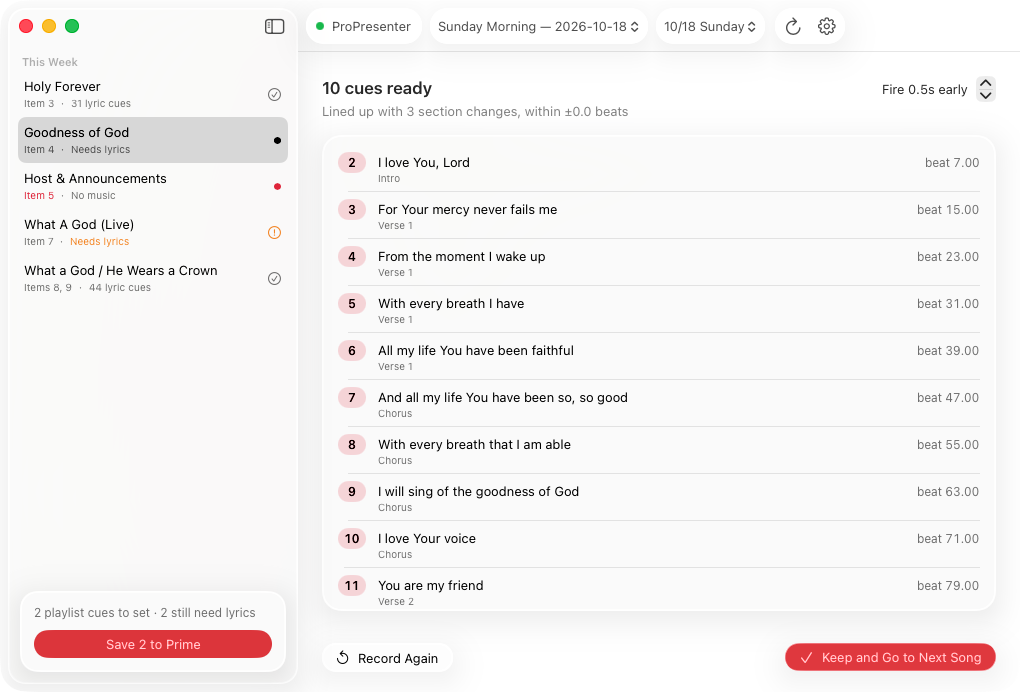
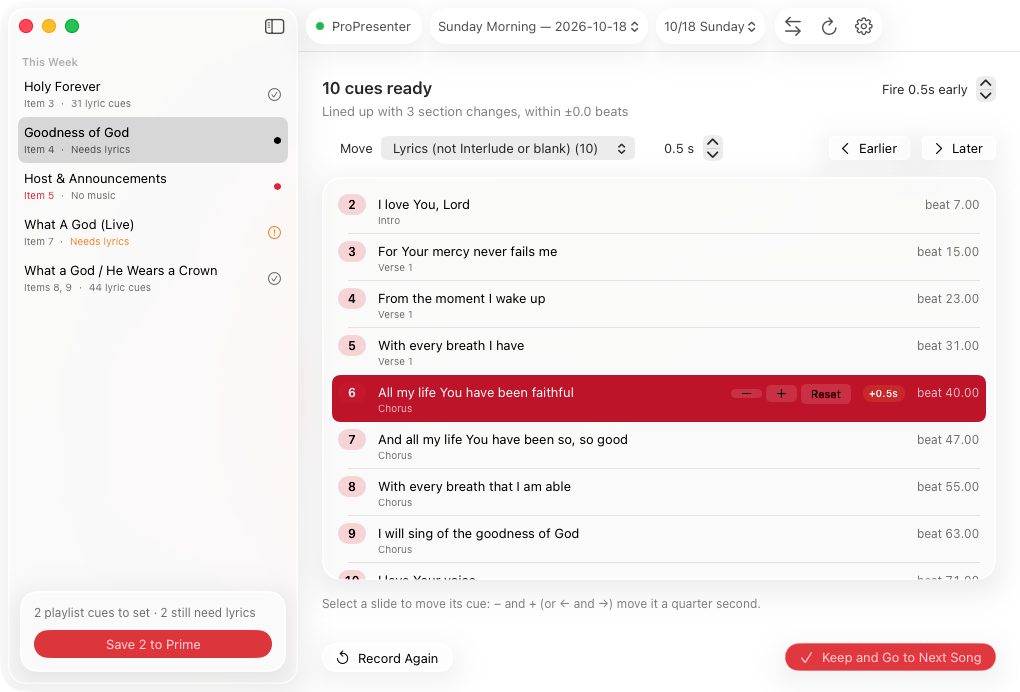
Site: fine-tuning cues, Full Disk Access, notes for skipped versions

diff --git a/site/index.html b/site/index.html
@@ -310,7 +310,7 @@
           <h2>Timing that snaps to the music.</h2>
           <p class="intro">Each section change you click (Verse, Chorus, Bridge) is matched to that section in Prime, so a cue lands on the beat even if your click was a little late. Cues fire half a second early by default to cover MIDI delay.</p>
         </div>
-        <img src="review.png" width="1020" height="692" alt="Ten recorded lyric cues, each with its slide text, section and beat." loading="lazy">
+        <img src="review.png" width="1020" height="692" alt="Ten recorded lyric cues, each with its slide text, section and beat. One Chorus slide is selected with − and + buttons and moved half a second later." loading="lazy">
       </div>
       <div class="split flip">
         <div class="copy">
@@ -319,6 +319,14 @@
           <p class="intro">Uploaded songs and songs with tempo changes are timed by the clock. Tell the app where the first slide lands and the rest follow your clicks.</p>
         </div>
         <img src="first-slide.png" width="1020" height="692" alt="The review screen asking where the first slide lands, set to 0:05.3, above the list of cues." loading="lazy">
+      </div>
+      <div class="split">
+        <div class="copy">
+          <p class="kicker">Fine-tune any cue</p>
+          <h2>Nudge a slide, or a whole group.</h2>
+          <p class="intro">Click any slide to move it a little earlier or later, right after recording or weeks later on a song that already has cues. Or move a group at once: bring the lyrics in a touch early and let Interlude and blank slides wait. Shift Lyric Cues moves the whole week in one go.</p>
+        </div>
+        <img src="saved-cues.png" width="640" height="670" alt="Saved Cues for Goodness of God: every slide with its words and time in the song, lyrics selected to move half a second earlier, one slide moved 0.5 seconds earlier and the Interlude slide 1 second later." loading="lazy">
       </div>
     </div>
   </section>
@@ -353,7 +361,7 @@
       <div>
         <svg viewBox="0 0 24 24" fill="none" stroke="currentColor" stroke-width="2" stroke-linecap="round" stroke-linejoin="round" aria-hidden="true"><path d="M21 12a9 9 0 1 1-3-6.7L21 8"/><path d="M21 3v5h-5"/></svg>
         <h3>Updates itself</h3>
-        <p>New versions arrive on their own, so every campus stays on the same one. Never mid-recording.</p>
+        <p>New versions arrive on their own, so every campus stays on the same one. Never mid-recording, and you see what changed in every version you skipped.</p>
       </div>
       <div>
         <svg viewBox="0 0 24 24" fill="none" stroke="currentColor" stroke-width="2" stroke-linecap="round" stroke-linejoin="round" aria-hidden="true"><rect x="3" y="4" width="18" height="13" rx="2"/><path d="M8 21h8M12 17v4"/></svg>
@@ -366,7 +374,7 @@
   <section class="soft" id="before">
     <div class="wrap">
       <p class="kicker">Before you start</p>
-      <h2>Two things to know.</h2>
+      <h2>Three things to know.</h2>
       <p class="intro">That's all the setup there is.</p>
       <ul class="checklist">
         <li>
@@ -379,6 +387,12 @@
           <div>
             <strong>Prime closes while saving.</strong>
             <span>Cues are written straight into Prime's library, so the app asks Prime to quit for that step, then you open it and save to the cloud as usual.</span>
+          </div>
+        </li>
+        <li>
+          <div>
+            <strong>Allow Full Disk Access once.</strong>
+            <span>Prime keeps its library in its own private folder, so the app asks once for Full Disk Access and takes you to the right switch in System Settings. Rather not? Skip it, and macOS asks you to Allow each time the app opens.</span>
           </div>
         </li>
       </ul>
